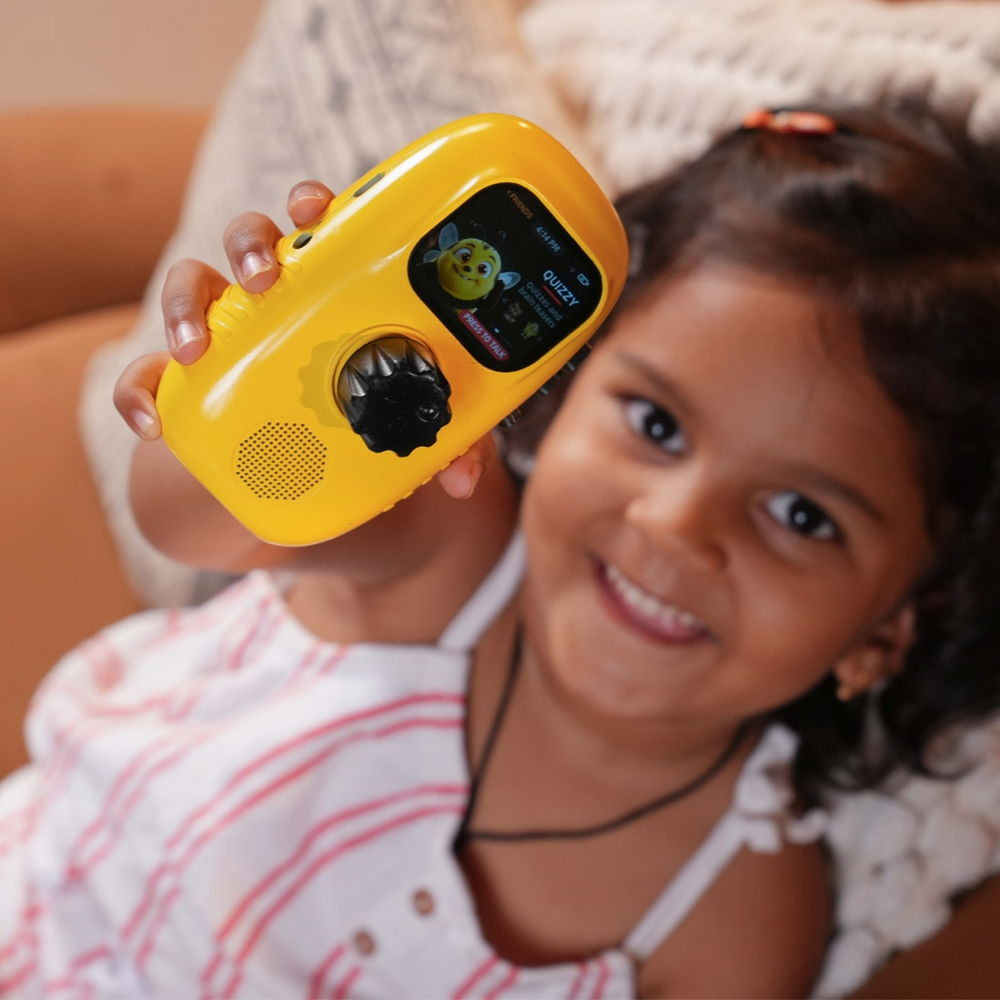
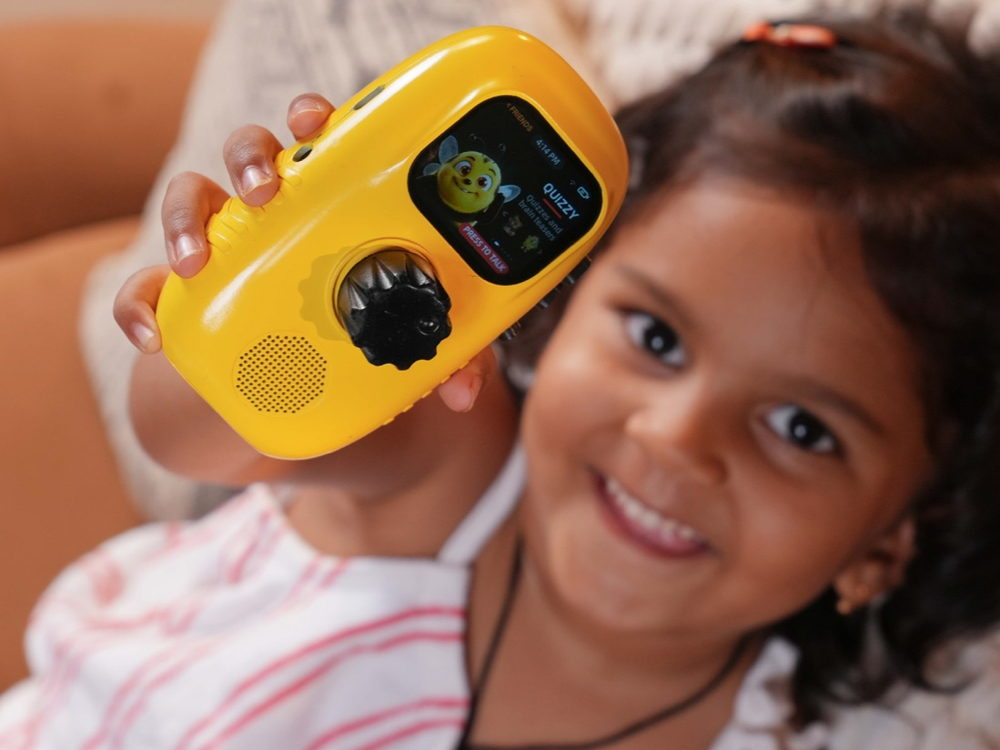
The grey was padding baked into the photo files: crop it out and match the card to the real 4:3 pictures

diff --git a/assets/css/premium.css b/assets/css/premium.css
@@ -601,18 +601,18 @@ body.plocked{overflow:hidden}
 .th-cta .btn{padding:16px 34px;font-size:16.5px}
 .th-cta .btn.ghost{background:#FFFFFF;color:var(--ink);border:2px solid rgba(35,26,16,.14);box-shadow:none}
 .th-cta .btn.ghost:hover{border-color:var(--brand);color:var(--brand)}
-.th-photo{position:relative;background:#F3E7D2;aspect-ratio:1/1;width:100%;max-width:500px;justify-self:end;border-radius:36px;overflow:hidden;box-shadow:0 22px 50px rgba(35,26,16,.14)}
+.th-photo{position:relative;background:#F3E7D2;aspect-ratio:4/3;width:100%;max-width:540px;justify-self:end;border-radius:36px;overflow:hidden;box-shadow:0 22px 50px rgba(35,26,16,.14)}
 .th-photo .slide{position:absolute;inset:0;opacity:0;transition:opacity 1.2s ease}
 .th-photo .slide.on{opacity:1}
 .th-photo picture{position:absolute;inset:0;display:block}
-.th-photo img{width:100%;height:100%;object-fit:cover;object-position:center 40%;transform:scale(1.04);transition:transform 5.2s linear}
+.th-photo img{width:100%;height:100%;object-fit:cover;object-position:center;transform:scale(1.04);transition:transform 5.2s linear}
 .th-photo .slide.on img{transform:scale(1)}
 .cn-dots{position:absolute;left:50%;transform:translateX(-50%);bottom:20px;z-index:3;display:flex;gap:8px}
 .cn-dots i{width:8px;height:8px;border-radius:50%;background:rgba(255,255,255,.55);box-shadow:0 1px 4px rgba(0,0,0,.3);transition:.3s}
 .cn-dots i.on{background:#FFFFFF;width:22px;border-radius:99px}
 @media (max-width:900px){
   .th-in{grid-template-columns:1fr;gap:0;padding:0}
-  .th-photo{order:-1;margin:12px auto 0;border-radius:24px;min-height:0;aspect-ratio:1/1;width:calc(100% - 24px);max-width:460px}
+  .th-photo{order:-1;margin:12px auto 0;border-radius:24px;min-height:0;aspect-ratio:4/3;width:calc(100% - 24px);max-width:460px}
   .th-copy{padding:18px 20px 26px;text-align:center}
   .th-copy .eyebrow{font-size:10.5px}
   .th-copy h1{font-size:clamp(29px,8.2vw,36px);margin:10px 0 8px}

diff --git a/index.html b/index.html
@@ -19,7 +19,7 @@
 <link rel="stylesheet" href="https://fonts.googleapis.com/css2?family=Gabarito:wght@600;700;800;900&family=Hanken+Grotesk:wght@400;600;800&family=Spline+Sans+Mono:wght@500;700&display=swap" />
 <link rel="preload" as="image" href="assets/img/live/hero-kid-mom.jpg" />
 <link rel="preload" as="image" href="assets/img/live/hero-kid-slot.jpg" />
-<link rel="stylesheet" href="assets/css/premium.css?v=49" />
+<link rel="stylesheet" href="assets/css/premium.css?v=50" />
 <script type="application/ld+json">
 {
   "@context": "https://schema.org",
@@ -85,9 +85,9 @@
       </div>
     </div>
     <div class="th-photo">
-      <div class="slide on"><img src="assets/img/live/hero-kid-joy.jpg" width="1000" height="1001" alt="A young girl holding her yellow Cheeko close, smiling" fetchpriority="high" /></div>
-      <div class="slide"><img src="assets/img/live/hero-kid-mom.jpg" width="1000" height="1000" alt="A mother and daughter laughing over their Cheeko and a story card" /></div>
-      <div class="slide"><img src="assets/img/live/hero-kid-slot.jpg" width="1000" height="999" alt="A boy sliding a story card into his Cheeko" /></div>
+      <div class="slide on"><img src="assets/img/live/hero-kid-joy.jpg" width="1000" height="750" alt="A young girl holding her yellow Cheeko close, smiling" fetchpriority="high" /></div>
+      <div class="slide"><img src="assets/img/live/hero-kid-mom.jpg" width="1000" height="750" alt="A mother and daughter laughing over their Cheeko and a story card" /></div>
+      <div class="slide"><img src="assets/img/live/hero-kid-slot.jpg" width="1000" height="750" alt="A boy sliding a story card into his Cheeko" /></div>
       <div class="cn-dots" aria-hidden="true"><i class="on"></i><i></i><i></i></div>
     </div>
   </div>

diff --git a/chars-a.html b/chars-a.html
@@ -9,7 +9,7 @@
 <link rel="preconnect" href="https://fonts.googleapis.com" />
 <link rel="preconnect" href="https://fonts.gstatic.com" crossorigin />
 <link rel="stylesheet" href="https://fonts.googleapis.com/css2?family=Gabarito:wght@600;700;800;900&family=Hanken+Grotesk:wght@400;600;800&family=Spline+Sans+Mono:wght@500;700&display=swap" />
-<link rel="stylesheet" href="assets/css/premium.css?v=49" />
+<link rel="stylesheet" href="assets/css/premium.css?v=50" />
 <style>
 .badge{position:fixed;top:14px;left:14px;z-index:60;background:var(--brand);color:#fff;font:700 12px/1 "Spline Sans Mono",monospace;letter-spacing:.14em;padding:9px 14px;border-radius:99px;box-shadow:0 6px 18px rgba(240,82,29,.4)}
 .backlink{position:fixed;top:14px;right:14px;z-index:60;background:#fff;color:var(--ink);font:600 13px/1 "Hanken Grotesk",sans-serif;padding:9px 14px;border-radius:99px;text-decoration:none;box-shadow:0 4px 14px rgba(35,26,16,.15)}

diff --git a/chars-b.html b/chars-b.html
@@ -9,7 +9,7 @@
 <link rel="preconnect" href="https://fonts.googleapis.com" />
 <link rel="preconnect" href="https://fonts.gstatic.com" crossorigin />
 <link rel="stylesheet" href="https://fonts.googleapis.com/css2?family=Gabarito:wght@600;700;800;900&family=Hanken+Grotesk:wght@400;600;800&family=Spline+Sans+Mono:wght@500;700&display=swap" />
-<link rel="stylesheet" href="assets/css/premium.css?v=49" />
+<link rel="stylesheet" href="assets/css/premium.css?v=50" />
 <style>
 .badge{position:fixed;top:14px;left:14px;z-index:60;background:var(--brand);color:#fff;font:700 12px/1 "Spline Sans Mono",monospace;letter-spacing:.14em;padding:9px 14px;border-radius:99px;box-shadow:0 6px 18px rgba(240,82,29,.4)}
 .backlink{position:fixed;top:14px;right:14px;z-index:60;background:#fff;color:var(--ink);font:600 13px/1 "Hanken Grotesk",sans-serif;padding:9px 14px;border-radius:99px;text-decoration:none;box-shadow:0 4px 14px rgba(35,26,16,.15)}

diff --git a/chars-c.html b/chars-c.html
@@ -9,7 +9,7 @@
 <link rel="preconnect" href="https://fonts.googleapis.com" />
 <link rel="preconnect" href="https://fonts.gstatic.com" crossorigin />
 <link rel="stylesheet" href="https://fonts.googleapis.com/css2?family=Gabarito:wght@600;700;800;900&family=Hanken+Grotesk:wght@400;600;800&family=Spline+Sans+Mono:wght@500;700&display=swap" />
-<link rel="stylesheet" href="assets/css/premium.css?v=49" />
+<link rel="stylesheet" href="assets/css/premium.css?v=50" />
 <style>
 .badge{position:fixed;top:14px;left:14px;z-index:60;background:var(--brand);color:#fff;font:700 12px/1 "Spline Sans Mono",monospace;letter-spacing:.14em;padding:9px 14px;border-radius:99px;box-shadow:0 6px 18px rgba(240,82,29,.4)}
 .backlink{position:fixed;top:14px;right:14px;z-index:60;background:#fff;color:var(--ink);font:600 13px/1 "Hanken Grotesk",sans-serif;padding:9px 14px;border-radius:99px;text-decoration:none;box-shadow:0 4px 14px rgba(35,26,16,.15)}

diff --git a/hero-kids-a.html b/hero-kids-a.html
@@ -9,7 +9,7 @@
 <link rel="preconnect" href="https://fonts.googleapis.com" />
 <link rel="preconnect" href="https://fonts.gstatic.com" crossorigin />
 <link rel="stylesheet" href="https://fonts.googleapis.com/css2?family=Gabarito:wght@600;700;800;900&family=Hanken+Grotesk:wght@400;600;800&family=Spline+Sans+Mono:wght@500;700&display=swap" />
-<link rel="stylesheet" href="assets/css/premium.css?v=49" />
+<link rel="stylesheet" href="assets/css/premium.css?v=50" />
 <style>
 .badge{position:fixed;top:14px;left:14px;z-index:60;background:var(--brand);color:#fff;font:700 12px/1 "Spline Sans Mono",monospace;letter-spacing:.14em;padding:9px 14px;border-radius:99px;box-shadow:0 6px 18px rgba(240,82,29,.4)}
 .backlink{position:fixed;top:14px;right:14px;z-index:60;background:#fff;color:var(--ink);font:600 13px/1 "Hanken Grotesk",sans-serif;padding:9px 14px;border-radius:99px;text-decoration:none;box-shadow:0 4px 14px rgba(35,26,16,.15)}

diff --git a/hero-kids-b.html b/hero-kids-b.html
@@ -9,7 +9,7 @@
 <link rel="preconnect" href="https://fonts.googleapis.com" />
 <link rel="preconnect" href="https://fonts.gstatic.com" crossorigin />
 <link rel="stylesheet" href="https://fonts.googleapis.com/css2?family=Gabarito:wght@600;700;800;900&family=Hanken+Grotesk:wght@400;600;800&family=Spline+Sans+Mono:wght@500;700&display=swap" />
-<link rel="stylesheet" href="assets/css/premium.css?v=49" />
+<link rel="stylesheet" href="assets/css/premium.css?v=50" />
 <style>
 .badge{position:fixed;top:14px;left:14px;z-index:60;background:var(--brand);color:#fff;font:700 12px/1 "Spline Sans Mono",monospace;letter-spacing:.14em;padding:9px 14px;border-radius:99px;box-shadow:0 6px 18px rgba(240,82,29,.4)}
 .backlink{position:fixed;top:14px;right:14px;z-index:60;background:#fff;color:var(--ink);font:600 13px/1 "Hanken Grotesk",sans-serif;padding:9px 14px;border-radius:99px;text-decoration:none;box-shadow:0 4px 14px rgba(35,26,16,.15)}

diff --git a/hero-kids-c.html b/hero-kids-c.html
@@ -9,7 +9,7 @@
 <link rel="preconnect" href="https://fonts.googleapis.com" />
 <link rel="preconnect" href="https://fonts.gstatic.com" crossorigin />
 <link rel="stylesheet" href="https://fonts.googleapis.com/css2?family=Gabarito:wght@600;700;800;900&family=Hanken+Grotesk:wght@400;600;800&family=Spline+Sans+Mono:wght@500;700&display=swap" />
-<link rel="stylesheet" href="assets/css/premium.css?v=49" />
+<link rel="stylesheet" href="assets/css/premium.css?v=50" />
 <style>
 .badge{position:fixed;top:14px;left:14px;z-index:60;background:var(--brand);color:#fff;font:700 12px/1 "Spline Sans Mono",monospace;letter-spacing:.14em;padding:9px 14px;border-radius:99px;box-shadow:0 6px 18px rgba(240,82,29,.4)}
 .backlink{position:fixed;top:14px;right:14px;z-index:60;background:#fff;color:var(--ink);font:600 13px/1 "Hanken Grotesk",sans-serif;padding:9px 14px;border-radius:99px;text-decoration:none;box-shadow:0 4px 14px rgba(35,26,16,.15)}

diff --git a/hero2-a.html b/hero2-a.html
@@ -9,7 +9,7 @@
 <link rel="preconnect" href="https://fonts.googleapis.com" />
 <link rel="preconnect" href="https://fonts.gstatic.com" crossorigin />
 <link rel="stylesheet" href="https://fonts.googleapis.com/css2?family=Gabarito:wght@600;700;800;900&family=Hanken+Grotesk:wght@400;600;800&family=Spline+Sans+Mono:wght@500;700&display=swap" />
-<link rel="stylesheet" href="assets/css/premium.css?v=49" />
+<link rel="stylesheet" href="assets/css/premium.css?v=50" />
 <style>
 .badge{position:fixed;top:14px;left:14px;z-index:60;background:var(--brand);color:#fff;font:700 12px/1 "Spline Sans Mono",monospace;letter-spacing:.14em;padding:9px 14px;border-radius:99px;box-shadow:0 6px 18px rgba(240,82,29,.4)}
 .backlink{position:fixed;top:14px;right:14px;z-index:60;background:#fff;color:var(--ink);font:600 13px/1 "Hanken Grotesk",sans-serif;padding:9px 14px;border-radius:99px;text-decoration:none;box-shadow:0 4px 14px rgba(35,26,16,.15)}

diff --git a/hero2-b.html b/hero2-b.html
@@ -9,7 +9,7 @@
 <link rel="preconnect" href="https://fonts.googleapis.com" />
 <link rel="preconnect" href="https://fonts.gstatic.com" crossorigin />
 <link rel="stylesheet" href="https://fonts.googleapis.com/css2?family=Gabarito:wght@600;700;800;900&family=Hanken+Grotesk:wght@400;600;800&family=Spline+Sans+Mono:wght@500;700&display=swap" />
-<link rel="stylesheet" href="assets/css/premium.css?v=49" />
+<link rel="stylesheet" href="assets/css/premium.css?v=50" />
 <style>
 .badge{position:fixed;top:14px;left:14px;z-index:60;background:var(--brand);color:#fff;font:700 12px/1 "Spline Sans Mono",monospace;letter-spacing:.14em;padding:9px 14px;border-radius:99px;box-shadow:0 6px 18px rgba(240,82,29,.4)}
 .backlink{position:fixed;top:14px;right:14px;z-index:60;background:#fff;color:var(--ink);font:600 13px/1 "Hanken Grotesk",sans-serif;padding:9px 14px;border-radius:99px;text-decoration:none;box-shadow:0 4px 14px rgba(35,26,16,.15)}

diff --git a/hero2-c.html b/hero2-c.html
@@ -9,7 +9,7 @@
 <link rel="preconnect" href="https://fonts.googleapis.com" />
 <link rel="preconnect" href="https://fonts.gstatic.com" crossorigin />
 <link rel="stylesheet" href="https://fonts.googleapis.com/css2?family=Gabarito:wght@600;700;800;900&family=Hanken+Grotesk:wght@400;600;800&family=Spline+Sans+Mono:wght@500;700&display=swap" />
-<link rel="stylesheet" href="assets/css/premium.css?v=49" />
+<link rel="stylesheet" href="assets/css/premium.css?v=50" />
 <style>
 .badge{position:fixed;top:14px;left:14px;z-index:60;background:var(--brand);color:#fff;font:700 12px/1 "Spline Sans Mono",monospace;letter-spacing:.14em;padding:9px 14px;border-radius:99px;box-shadow:0 6px 18px rgba(240,82,29,.4)}
 .backlink{position:fixed;top:14px;right:14px;z-index:60;background:#fff;color:var(--ink);font:600 13px/1 "Hanken Grotesk",sans-serif;padding:9px 14px;border-radius:99px;text-decoration:none;box-shadow:0 4px 14px rgba(35,26,16,.15)}

diff --git a/trust-options.html b/trust-options.html
@@ -9,7 +9,7 @@
 <link rel="preconnect" href="https://fonts.googleapis.com" />
 <link rel="preconnect" href="https://fonts.gstatic.com" crossorigin />
 <link rel="stylesheet" href="https://fonts.googleapis.com/css2?family=Gabarito:wght@600;700;800;900&family=Hanken+Grotesk:wght@400;600;800&family=Spline+Sans+Mono:wght@500;700&display=swap" />
-<link rel="stylesheet" href="assets/css/premium.css?v=49" />
+<link rel="stylesheet" href="assets/css/premium.css?v=50" />
 <style>
 body{background:var(--tint)}
 .opt{max-width:560px;margin:0 auto 10px;padding:26px 18px 8px}
